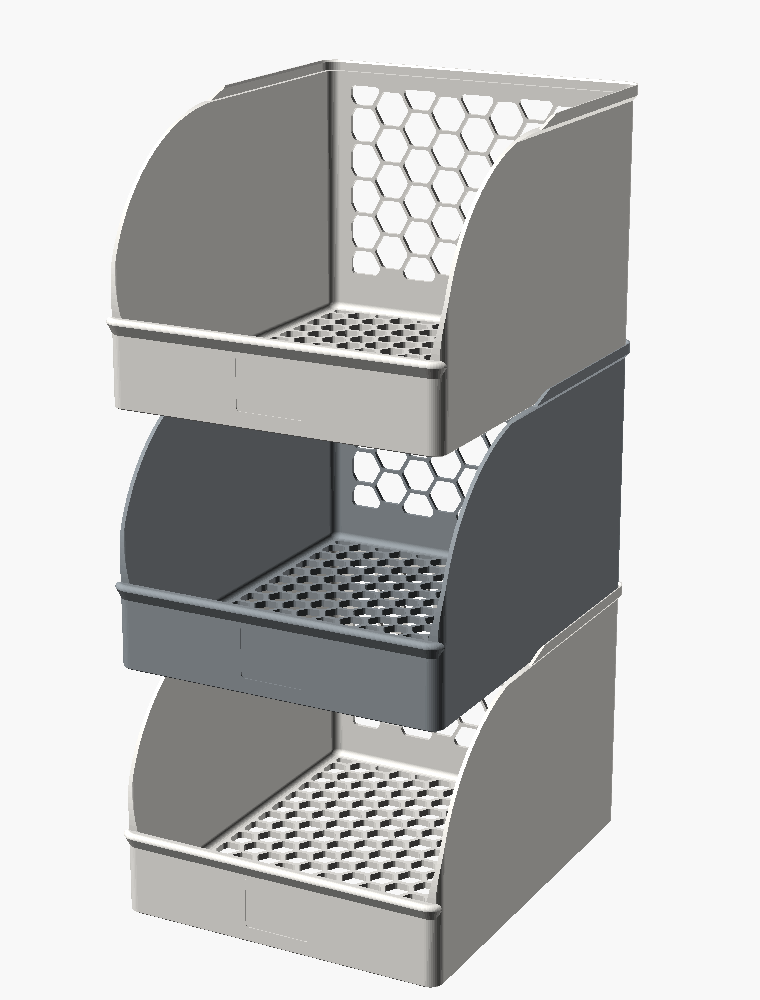
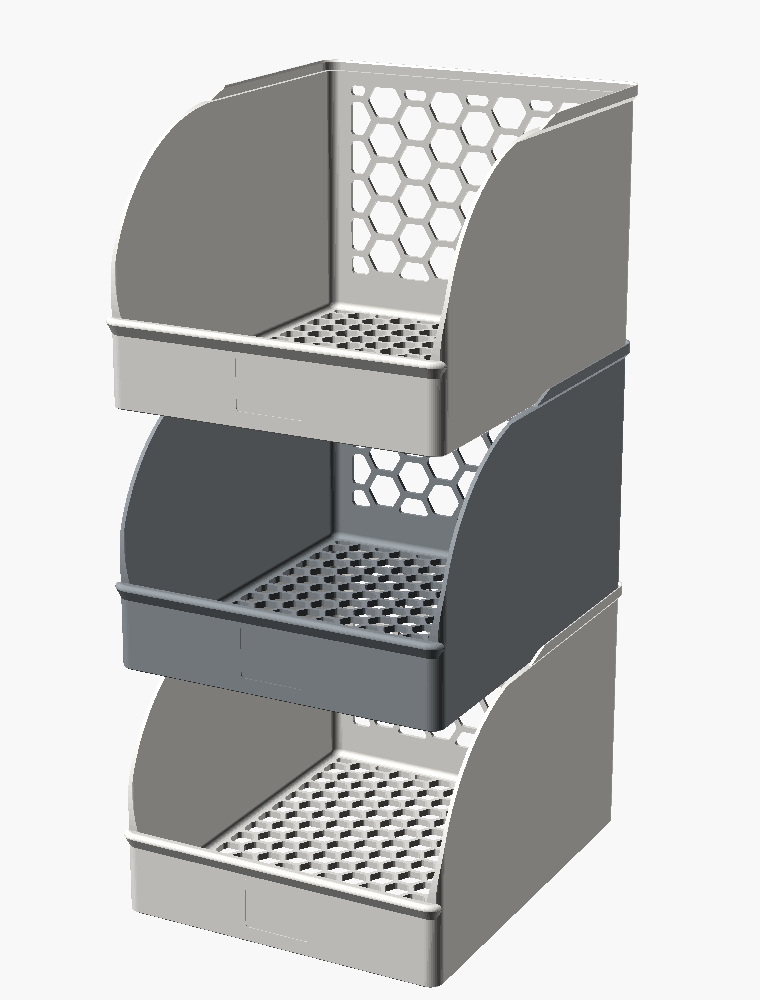
freezer-bin: hex_web 1.8 -> 3.6, hotter and cooler-fanned; orientation stays
Hands-on verdict was that the hex material itself snaps too easily. It does.

A wall web is a stack of layers, so it parts in Z at 20 MPa: 1.8 x 2.4 = 4.32 mm2
lets go at ~86 N. Taken to 3.6 -- 8.64 mm2, ~173 N, double. With solid sides it
costs under 6 g (277.74 -> 283.48 g), because once the sides are solid the only
honeycomb left in a wall is the back.

Pulled the layer-bonding lever this log named two entries ago ("if the cold test
cracks along layer lines, 255-260 is the lever" -- it did):

  nozzle    245 -> 260    near the top of 3DFP's 240-270
  part fan  40-90% -> 10-30%   cooling is what kills PETG layer bonding, and
                               layer times here are 30-96 s
  bridge fan 100%        unchanged; the hex roofs still need it

Price is stringing over ~170,000 retractions. Dry the filament.

Orientation: no. It is already the cheapest one -- 156 mm on Z is the smallest
dimension, 650 layers against 854 on its side and 1046 on its back. Every
overhang decision assumes it (flat-top cells, 38-degree flare, floor fillet,
grab rail), and support inside a honeycomb does not come back out.

And it would move the weakness rather than remove it: a box has walls in three
orthogonal planes, only one can lie parallel to the build layers, so two of three
will always be vertical walls whose webs cross layer bonds. The floor proves it
-- the one panel already in the layer plane, loaded in-plane at 43 MPa, 447 N per
[…]

diff --git a/freezer-bin/print_profile.py b/freezer-bin/print_profile.py
@@ -63,13 +63,13 @@ FILAMENT_SET = {
     "filament_cost": "22.99",
     "filament_flow_ratio": "0.96",
     "filament_max_volumetric_speed": "17.8",    # 3DFP measured; Bambu's generic SUNLU says 12
-    # 3DFP range is 240-270. Staying at the bottom: this part makes ~170,000 retractions and
-    # stringing is its biggest quality risk, while its stress margins are enormous (0.3 MPa of
-    # working stress against 20 MPa in the weak Z direction). If the cold test cracks along layer
-    # lines rather than through them, 255-260 is the lever -- hotter buys Z strength at the cost
-    # of more stringing.
-    "nozzle_temperature": "245",
-    "nozzle_temperature_initial_layer": "250",
+    # 3DFP range is 240-270, and this now sits near the top of it. The earlier note here said
+    # "if the cold test cracks along layer lines, 255-260 is the lever" -- it did exactly that, so
+    # the lever is pulled. Hotter means markedly better layer bonding, which is the direction the
+    # part actually failed in. The price is stringing, over ~170,000 retractions, so dry the
+    # filament and expect to look the first print over.
+    "nozzle_temperature": "260",
+    "nozzle_temperature_initial_layer": "260",
     "nozzle_temperature_range_low": "240",
     "nozzle_temperature_range_high": "270",
     # 3DFP bed range is 70-80, which confirms 70. Low end on purpose: PETG on textured PEI can
@@ -78,8 +78,11 @@ FILAMENT_SET = {
     "hot_plate_temp_initial_layer": "70",
     "textured_plate_temp": "70",
     "textured_plate_temp_initial_layer": "70",
-    "fan_min_speed": "40",                      # 3DFP: 40-90%, against Bambu's 30/10 for SUNLU
-    "fan_max_speed": "90",
+    # Dropped well under 3DFP's 40-90%. Part cooling is what kills PETG layer bonding, and a
+    # test print failed along a layer bond. Layer times here are 30-96 s, so the part has ample
+    # time to cool on its own; the bridges keep their own 100% fan below.
+    "fan_min_speed": "10",
+    "fan_max_speed": "30",
     "overhang_fan_speed": "100",                # 3DFP bridge fan 100%, and every hex roof bridges
     "overhang_fan_threshold": "10%",
     "close_fan_the_first_x_layers": "3",        # 3DFP: fan off for the first 0-3 layers

diff --git a/freezer-bin/README.md b/freezer-bin/README.md
@@ -59,8 +59,8 @@ the overall goes back to 248.35 mm.
 
 | File | What it is |
 |---|---|
-| `freezer_bin_print.3mf` | The bin, placed, with the P2S / SUNLU PETG 2.0 profile embedded. **278 g, 7 h 25 m.** |
-| `freezer_bin_break_test_print.3mf` | Two corners to snap — solid sides and framed-honeycomb sides. **42 g, 1 h 43 m.** |
+| `freezer_bin_print.3mf` | The bin, placed, with the P2S / SUNLU PETG 2.0 profile embedded. **283 g, 7 h 36 m.** |
+| `freezer_bin_break_test_print.3mf` | Two corners to snap — solid sides and framed-honeycomb sides. **43 g, 1 h 44 m.** |
 | `freezer_bin_cold_test_print.3mf` | Two cold-test bins on one plate. **71 g, 2 h 30 m.** Print this one first. |
 
 Open either in Bambu Studio and slice — the plate, filament and process are already set. The
@@ -90,16 +90,17 @@ A test print snapped under hand force: a vertical honeycomb web parted clean acr
 fracture — perpendicular to the print Z, so it failed along a layer bond, which is this filament's
 weak direction at **20 MPa against 43 in X-Y**.
 
-| | |
-|---|---|
-| web cross-section | 1.8 × 2.4 = **4.3 mm²** |
-| force to part one web in Z | **~86 N** |
+| `hex_web` | section | force to part one web in Z |
+|---|---|---|
+| 1.8 (what broke) | 4.3 mm² | ~86 N |
+| **3.6 (now)** | **8.6 mm²** | **~173 N** |
 
 86 N is about 9 kg through one web — a hand. The honeycomb is strong under distributed load, which
 is what a bin full of food applies, and weak under a point load, which is what a thumb applies.
 
-So the side walls are solid (`side_hex = false`) and the perforated field starts higher up the wall
-(`hex_base = 15`). The sides are the structural members — the deep beams carrying the front
+So the webs are **3.6 mm** instead of 1.8, which doubles the force one takes and costs under 6 g
+once the sides are solid. The side walls are solid (`side_hex = false`) and the perforated field
+starts higher up the wall (`hex_base = 15`). The sides are the structural members — the deep beams carrying the front
 cantilever — and the part a hand grabs. The back and floor stay open, which is where the airflow
 matters.
 
@@ -122,7 +123,7 @@ panel's span, so a poke deflects it less.
 | honeycomb, `side_margin = 22` | 222 g | −56 g |
 | honeycomb, `side_margin = 22`, `hex_web = 3.0` | 234 g | −44 g |
 | honeycomb, `side_margin = 35` | 245 g | −33 g |
-| **solid** (default) | **278 g** | — |
+| **solid** (default) | **283 g** | — |
 
 Solid is the default only because it is the one option known to be safe. Print the break test and
 decide — `DESIGN.md` has the per-web arithmetic.
@@ -203,7 +204,7 @@ Everything is at the top of `freezer_bin.scad`. The ones worth knowing:
 | `front_curve` | `true` | The quarter-ellipse sweep. Set `false` for a straight diagonal. |
 | `side_hex` | `false` | Perforate the side walls too. `false` makes them solid — see below. |
 | `hex_base` | 15 | Extra solid wall below the perforated field, on top of `hex_margin`. |
-| `hex_af`, `hex_web` | 20.0, 1.8 | Wall cell size and the material between cells. **The main filament knob.** |
+| `hex_af`, `hex_web` | 20.0, 3.6 | Wall cell size and the material between cells. **The main filament knob.** |
 | `hex_open` | `hex_af/8` | How hard the clipped grid is opened. Drops part-cells at panel edges instead of printing them as little offcuts; it has to scale with the cell. |
 | `floor_hex` | `true` | Perforate the floor. Turn off for a solid floor — costs about 47 g. |
 | `front_hex` | `false` | Perforate the front lip too. Saves about 12 g and loses the label face. |
@@ -226,7 +227,7 @@ the full table.
 |---|---|---|
 | 0.20 mm layers, 16 mm cells, Spiral z-hop, honeycomb sides | 9 h 14 m | 186 g |
 | 0.24 mm layers, 20 mm cells, Normal z-hop, honeycomb sides | 7 h 30 m | 179 g |
-| **the above, with solid sides** | **7 h 25 m** | **278 g** |
+| **the above, solid sides and 3.6 mm webs** | **7 h 36 m** | **283 g** |
 
 The speed settings are free — 1 h 44 m and 8 g, and the margins barely move. The 99 g is the solid
 sides, a strength decision rather than a speed one. Every test piece uses the same settings as the
@@ -254,3 +255,27 @@ make print      # the two Bambu Studio 3MFs (needs Bambu Studio)
 
 openscad --backend=manifold -D 'part="bin"' -o out.stl freezer_bin.scad   # any single part
 ```
+
+## Why it prints bottom-down
+
+Rotating the print does not help, and the floor shows why.
+
+The bin is 204.7 × 251.35 × 156 mm, so bottom-down puts the **smallest** dimension on Z: 650
+layers, against 854 on its side and 1046 on its back. It is also the only orientation that needs
+no supports — the flat-top cells, the 38° flare, the floor fillet and the grab rail were all chosen
+for it, and support inside a honeycomb does not come back out.
+
+More fundamentally, a rotation moves the weakness rather than removing it. A box has walls in three
+orthogonal planes and only one plane can lie parallel to the build layers, so two of the three wall
+directions will always be vertical walls whose webs cross layer bonds. Lay it on its back to
+strengthen the back and the sides become the weak ones.
+
+The floor is the panel that already lies in the layer plane, and it is not what breaks:
+
+| | section | force |
+|---|---|---|
+| floor web, 2.6 × 4.0, loaded in-plane at 43 MPa | 10.4 mm² | **447 N** |
+| wall web, 3.6 × 2.4, loaded across layers at 20 MPa | 8.6 mm² | 173 N |
+
+The fixes that work are more material in the web, and a better bond between layers — a hotter
+nozzle and less part cooling, both of which are in the profile.

diff --git a/freezer-bin/DESIGN.md b/freezer-bin/DESIGN.md
@@ -641,3 +641,72 @@ and a 22 mm frame already eats a good share of one.
 `side_hex = false` stays the default for now, on the grounds that it is the one option known to be
 safe. The break-test plate now prints solid against framed honeycomb rather than against the
 original -- the original is already broken and sitting on the bench, so it needs no reprint.
+
+## 2026-11-23: thicker webs, and why the orientation stays
+
+### Webs: 1.8 -> 3.6
+
+Hands-on verdict was that the hex material itself snaps too easily. It does. A wall web is a stack
+of layers, so it parts in Z at 20 MPa:
+
+| `hex_web` | section | force to part one |
+|---|---|---|
+| 1.8 (broke) | 4.32 mm2 | 86 N |
+| 3.0 | 7.20 mm2 | 144 N |
+| **3.6** | **8.64 mm2** | **173 N** |
+
+Taken to **3.6**, double the original. With solid sides it is nearly free -- **277.74 -> 283.48 g,
+under 6 g** -- because once the sides are solid the only honeycomb left in a wall is the back, and
+it is a small share of the bin. Framed honeycomb sides with the same webs come in at 237.94 g, which
+is 40 g *below* today's default and twice as strong per web; the break test will say whether that
+is enough.
+
+### Layer bonding: the lever from two entries ago, pulled
+
+That entry said "if the cold test cracks along layer lines rather than through them, 255-260 is the
+lever". It cracked along layer lines. So:
+
+| | was | now | why |
+|---|---|---|---|
+| nozzle | 245 | **260** | near the top of 3DFP's 240-270; PETG layer bonding is strongly temperature-dependent, and Z is the direction it failed in |
+| part fan | 40-90% | **10-30%** | part cooling is what kills PETG layer bonding. Layer times here are 30-96 s, so it cools fine unaided |
+| bridge fan | 100% | 100% | unchanged -- the hex roofs still need it, and it is targeted |
+
+The price is stringing over ~170,000 retractions. Dry the filament and look the first one over.
+
+### Orientation: no, and it would not help anyway
+
+Asked whether rotating the print would fix it. It would not, for three reasons.
+
+**It is already the cheapest orientation.** The bin is 204.7 x 251.35 x 156. Bottom-down puts the
+*smallest* dimension on Z: 650 layers. On its side is 854, on its back 1046 -- 30 to 60% more
+layers and time, for a part that is already layer-count-bound.
+
+**It would need supports.** Every overhang decision in this design assumes this orientation: the
+flat-top cells, the 38-degree flare, the floor fillet, the grab rail. Rotate it and the honeycomb
+needs support inside the cells, which is not something you get back out of a honeycomb.
+
+**And it does not remove the weakness, it moves it.** A box has walls in three orthogonal planes
+and only one plane can lie parallel to the build layers. Whichever way it is turned, two of the
+three wall directions end up as vertical walls whose webs cross layer bonds. Lay it on its back to
+strengthen the back panel and the sides become the weak ones.
+
+The floor is the proof. It is the one panel already lying in the layer plane, so its webs are
+loaded in-plane at 43 MPa rather than across layers at 20:
+
+| | section | force |
+|---|---|---|
+| floor web, 2.6 x 4.0 | 10.4 mm2 at 43 MPa | **447 N** |
+| wall web, 3.6 x 2.4 | 8.64 mm2 at 20 MPa | 173 N |
+| wall web, 1.8 x 2.4 (broke) | 4.32 mm2 at 20 MPa | 86 N |
+
+A floor web is five times a wall web of the original thickness, and the floor is not what broke.
+That is the whole orientation argument in one table: the panel in the layer plane is fine, and
+only one panel can be.
+
+The fixes that do work are the ones above -- more material in the web, and a better bond between
+layers.
+
+### Now
+
+**283.48 g, 7 h 36 m.** Cold-test plate 82.32 g / 2 h 24 m, break-test plate 43.44 g / 1 h 44 m.

diff --git a/README.md b/README.md
@@ -12,7 +12,7 @@ Designed and printed on a Bambu Lab P2S (0.4 mm nozzle, AMS).
 | <img src="desk-dial-pod/img/pod_back.png" width="220"> | [desk-dial-pod](desk-dial-pod/) | Round pod for a 1.28" round display and a XIAO ESP32S3, off the edge of a monitor at eye level. Slides onto a Command-strip bracket; two-colour accent ring round the window. | `desk_dial_pod.3mf` (whole plate, P2S profile included) |
 | <img src="desk-dial-knob/img/assembly.png" width="220"> | [desk-dial-knob](desk-dial-knob/) | A rotary-encoder knob in a round head on a neck, gel-taped under a desk. A NeoPixel lights a thin ring of colour at the knob's base. | `desk_dial_knob_housing.3mf`, or the `desk_dial_kh_*.stl` parts |
 | <img src="desk-accent-case/img/stacked.png" width="220"> | [desk-accent-case](desk-accent-case/) | Slim case for a XIAO ESP32S3 and an 8-LED stick, stuck under a monitor's edge to light the stand plate. | `desk_accent.3mf`, or `desk_accent_stacked_*.stl` |
-| <img src="freezer-bin/img/bin.png" width="220"> | [freezer-bin](freezer-bin/) | Open-front stackable bin with honeycomb walls and floor, as deep as a P2S bed will take. Stacked, the front of every bin stays open. | `freezer_bin_print.3mf` (278 g, 7 h 25 m in SUNLU PETG 2.0, P2S profile included); `freezer_bin_cold_test_print.3mf` to freeze first |
+| <img src="freezer-bin/img/bin.png" width="220"> | [freezer-bin](freezer-bin/) | Open-front stackable bin with honeycomb walls and floor, as deep as a P2S bed will take. Stacked, the front of every bin stays open. | `freezer_bin_print.3mf` (283 g, 7 h 36 m in SUNLU PETG 2.0, P2S profile included); `freezer_bin_cold_test_print.3mf` to freeze first |
 
 Each project folder has a `README.md` (pictures, printing, hardware), a `DESIGN.md` (intent, decisions, fit-test results) and a `Makefile`.
 
